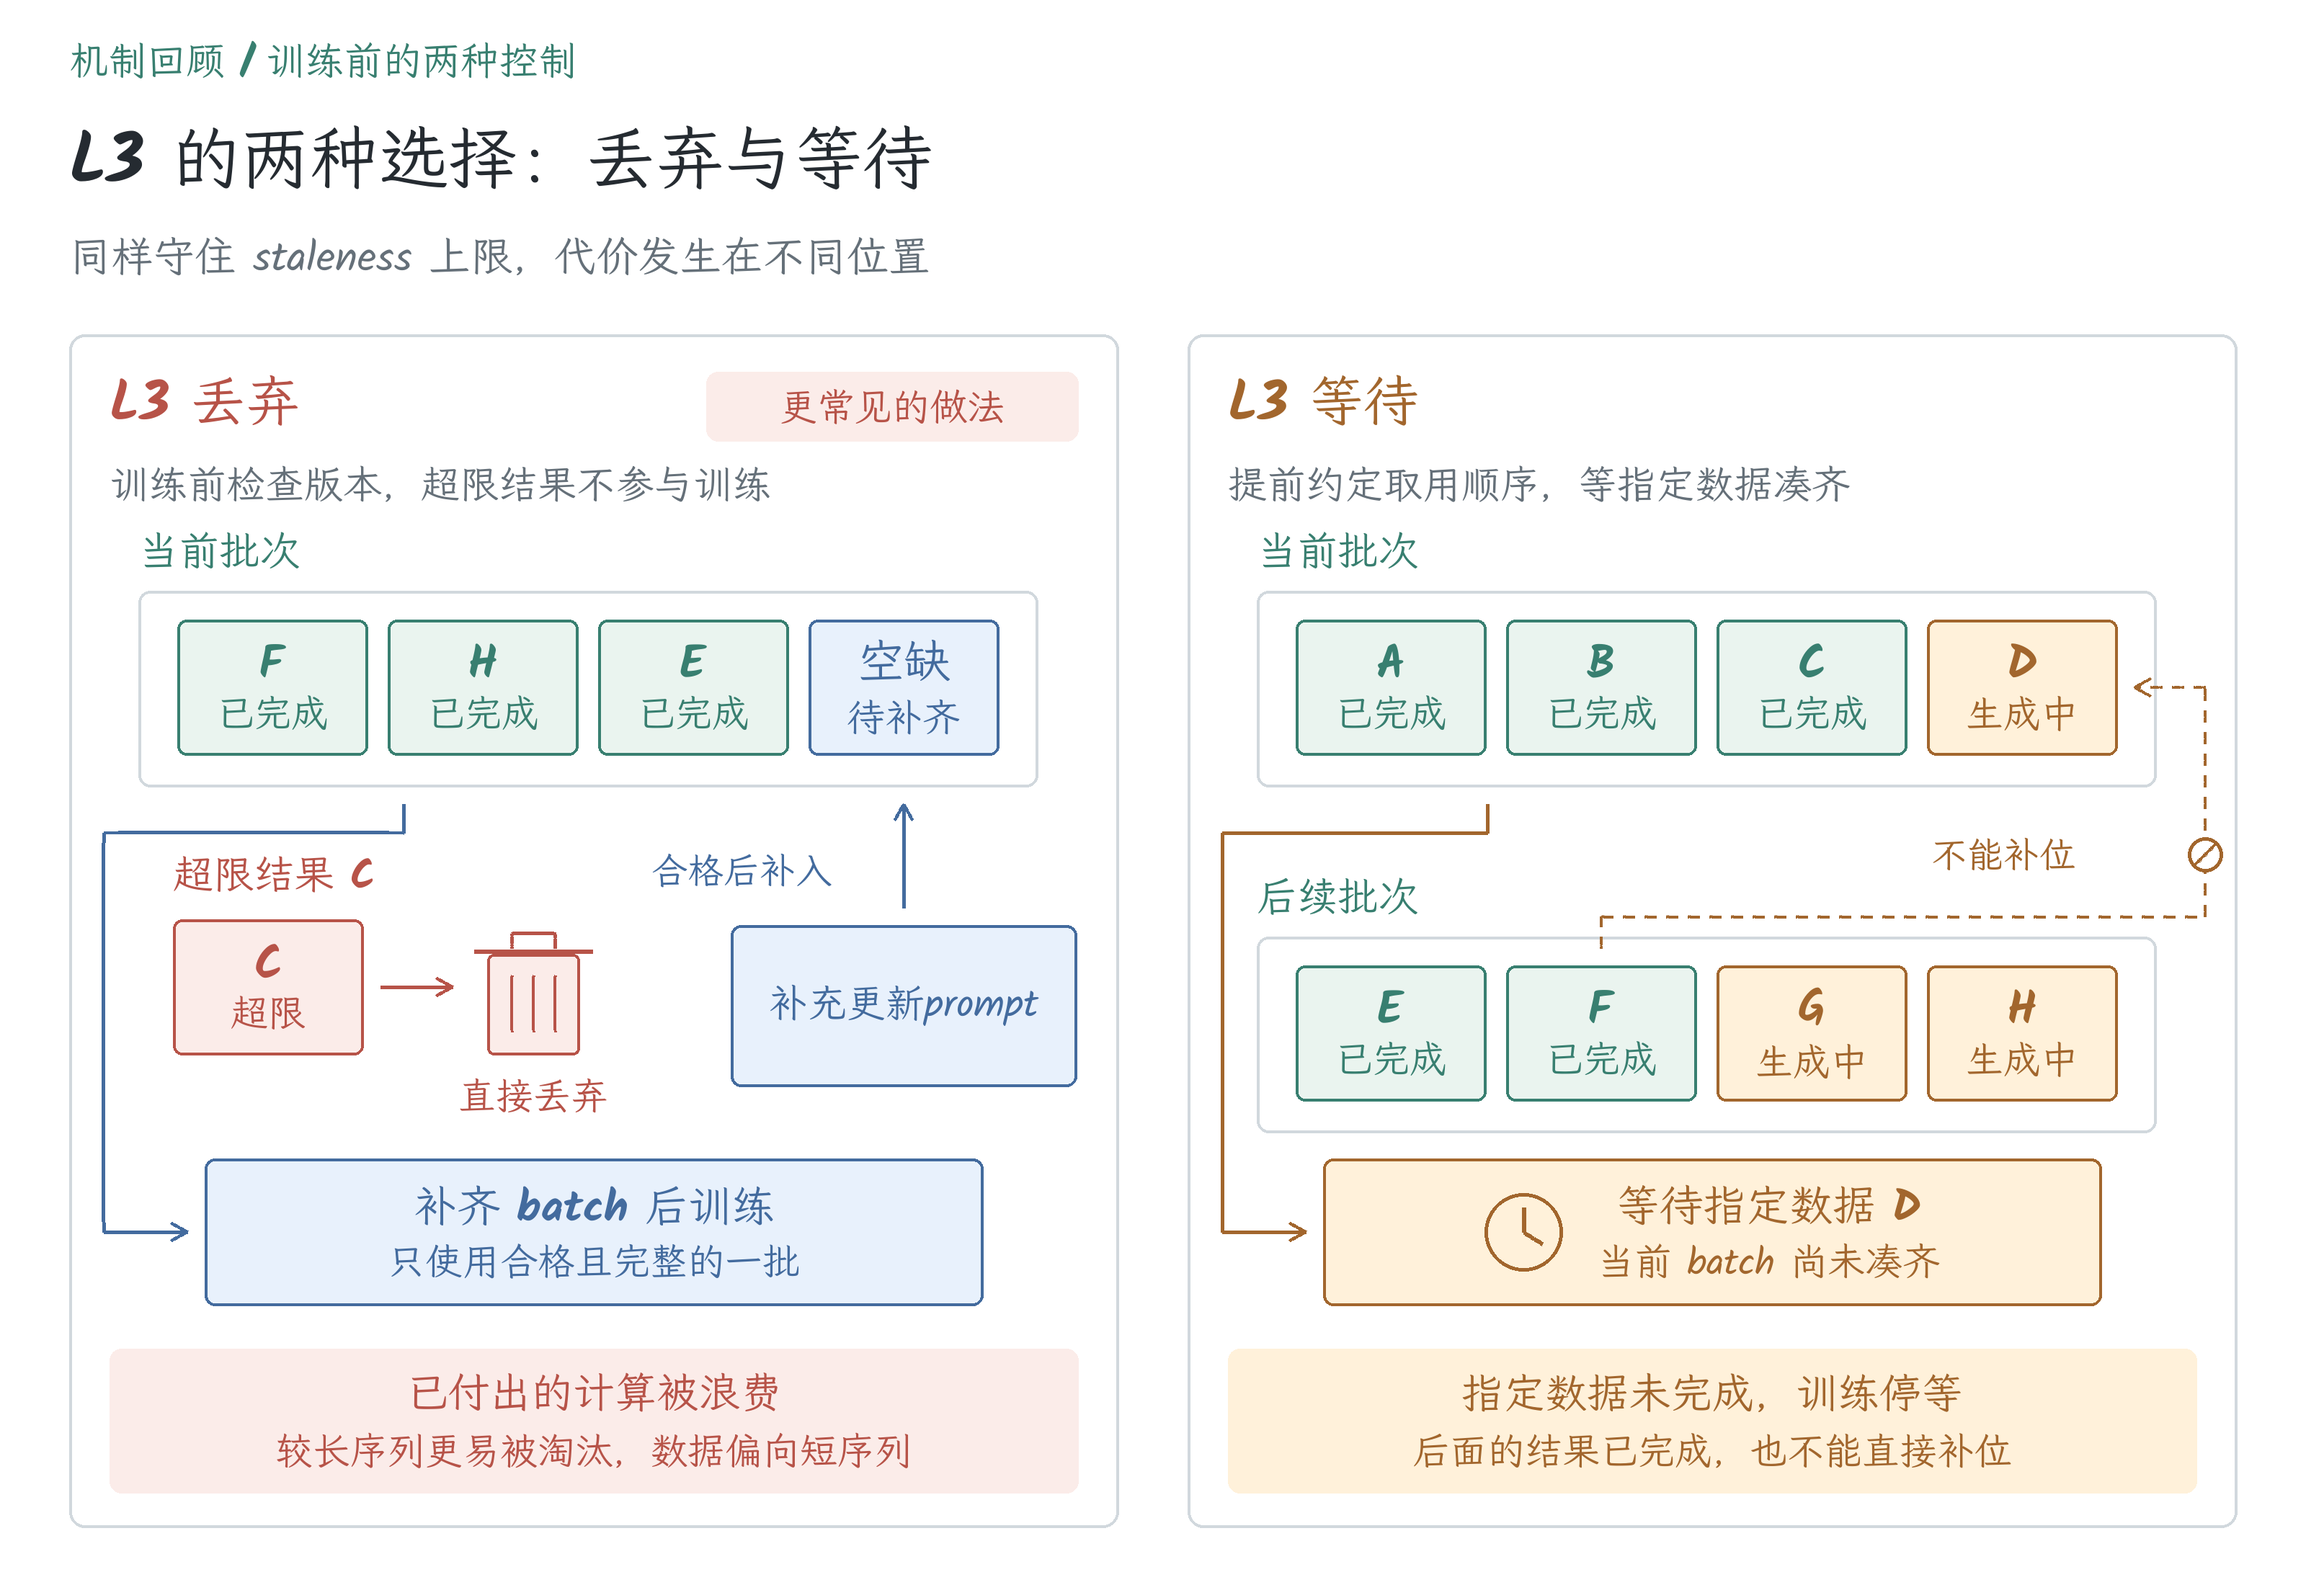
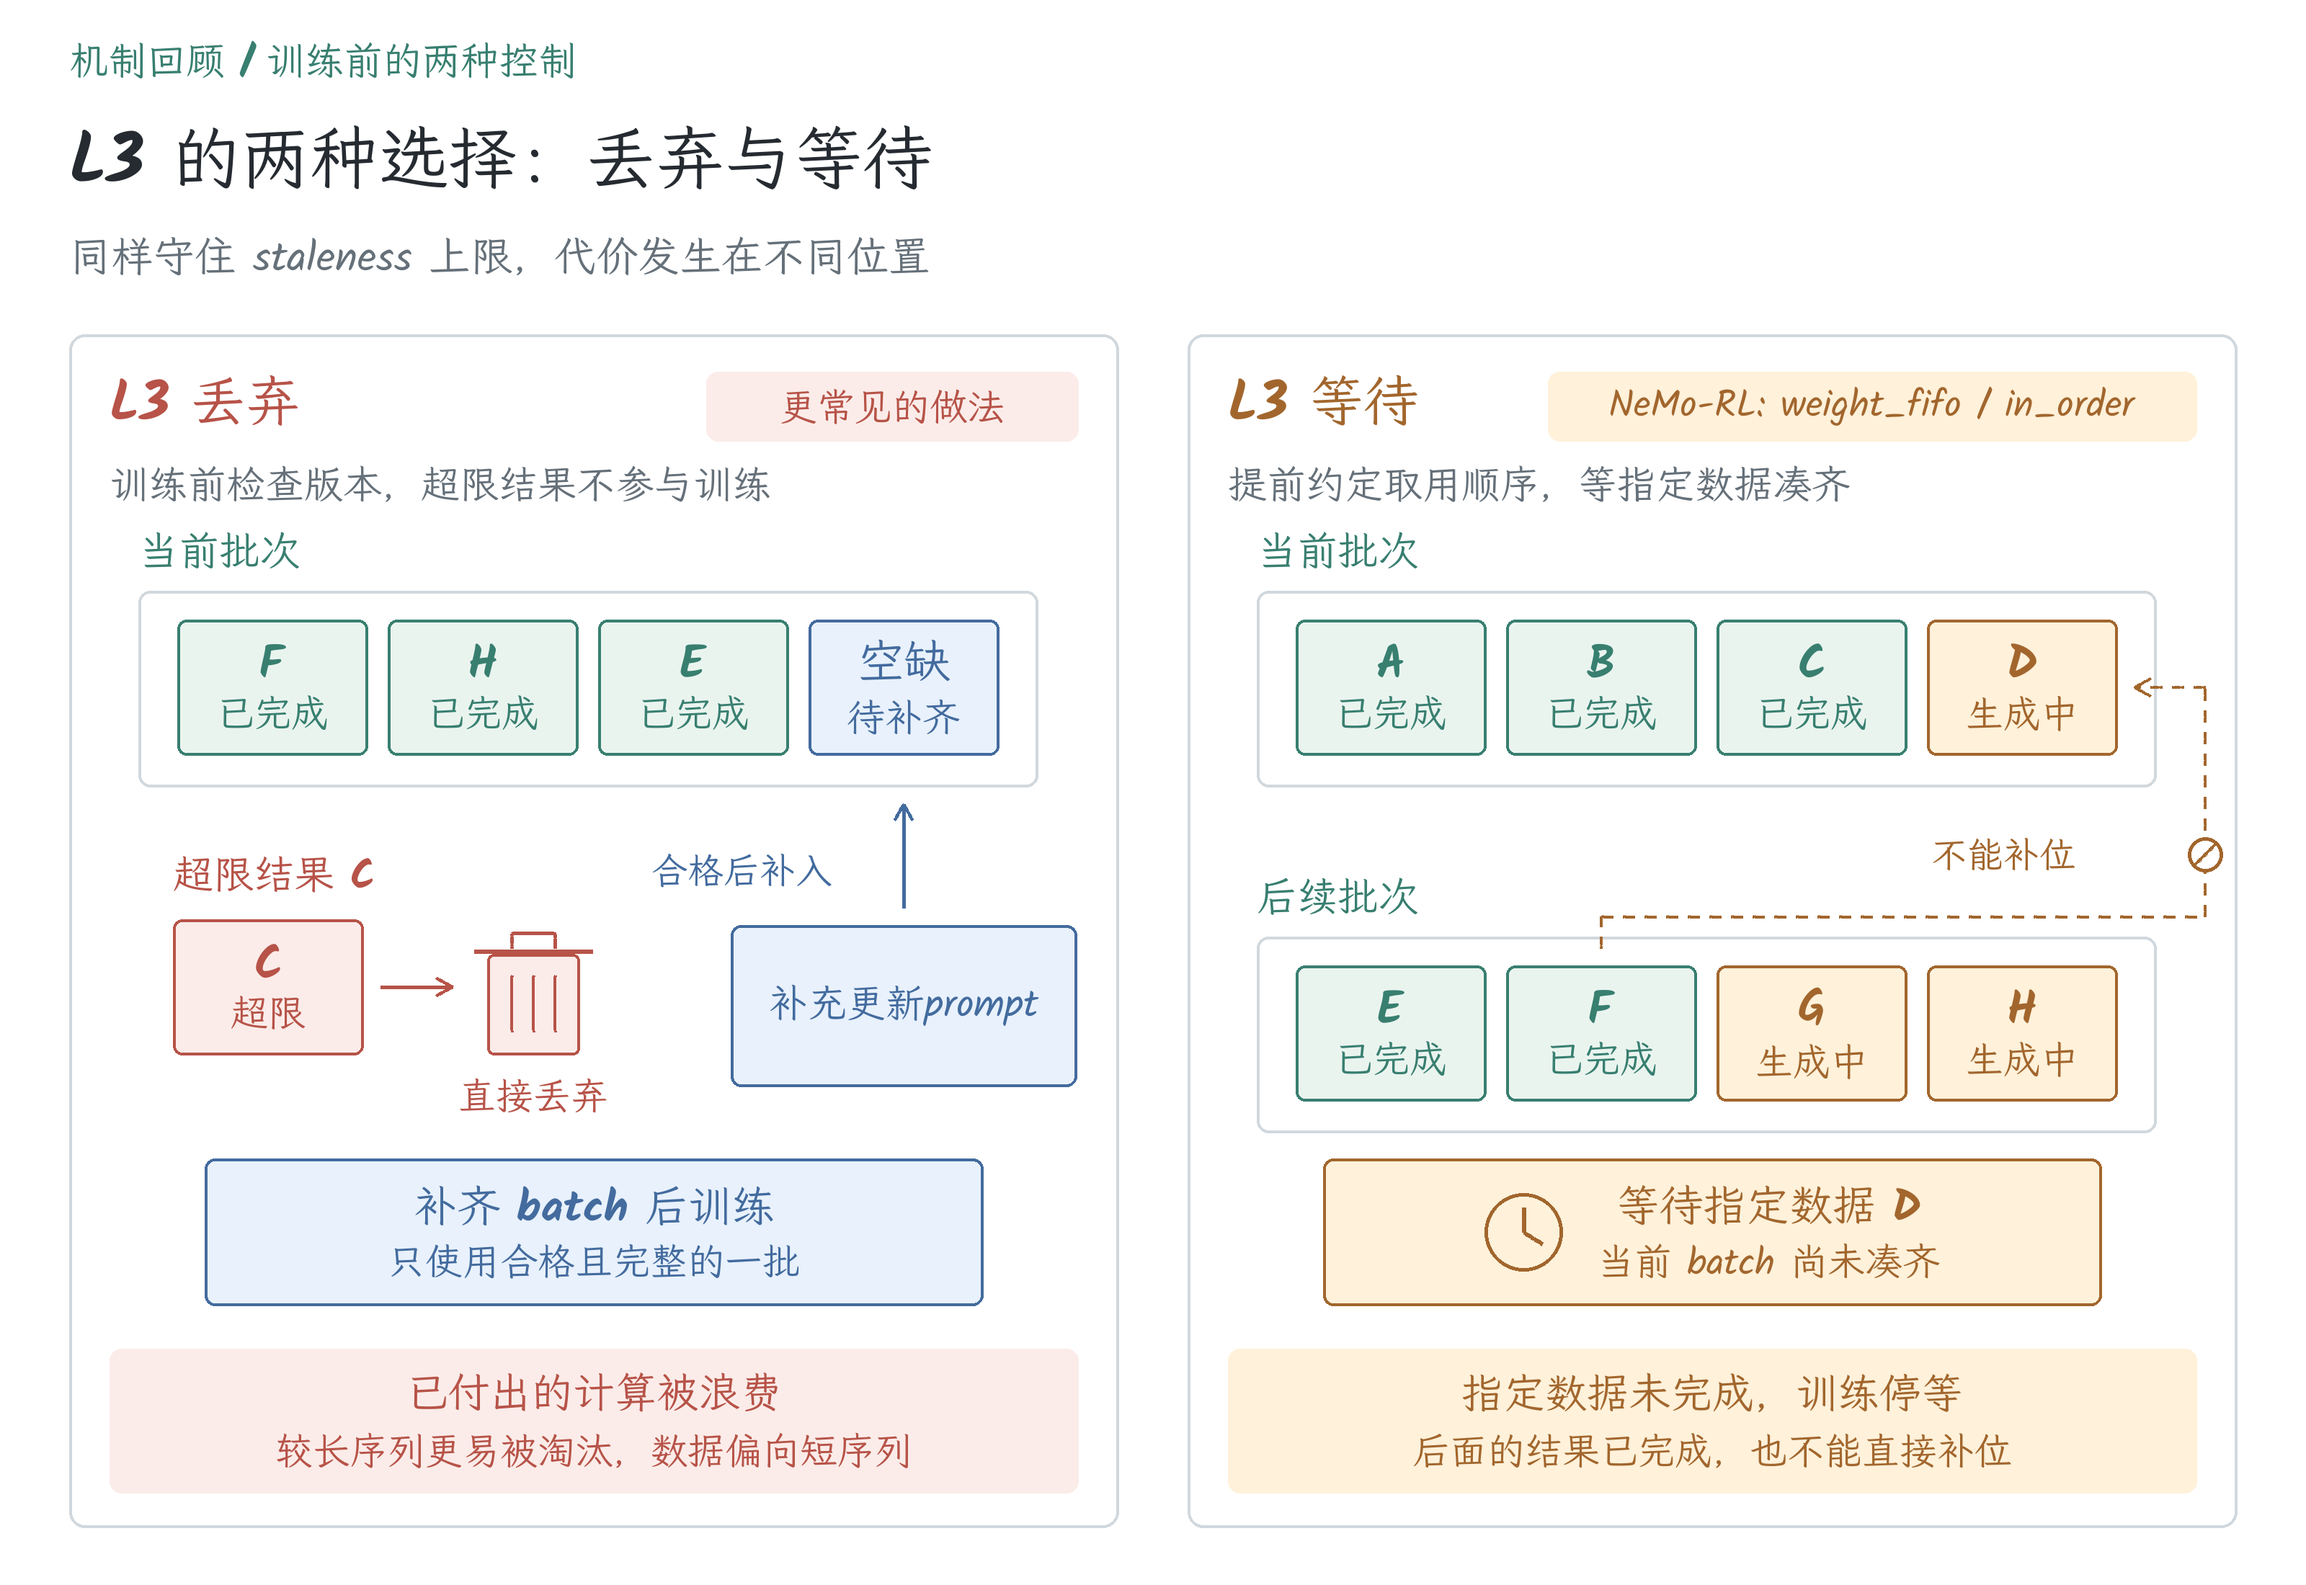
Add article navigation and refine staleness series presentation

Changed region(s): [[0.6562, 0.2164, 0.9688, 0.2782]]

diff --git a/_sass/_portfolio.scss b/_sass/_portfolio.scss
@@ -207,8 +207,17 @@ body { padding-bottom: 0; font-family: var(--font-body); letter-spacing: 0; }
 .blog-toc a { display: block; padding: .18rem .25rem; border-radius: 3px; color: var(--accent-dark); font-size: inherit; font-weight: 400; line-height: 1.5; text-decoration: none; }
 .blog-toc nav > ol > li > a { font-weight: 650; }
 .blog-toc a:hover { background: var(--accent-wash); }
-.blog-article__footer { display: flex; justify-content: space-between; gap: 1rem; margin-top: 2.2rem; padding-top: 1rem; border-top: 1px solid var(--line); font-size: .82rem; }
+.blog-article__footer { margin-top: 2.2rem; padding-top: 1.25rem; border-top: 1px solid var(--line); font-size: .82rem; }
 .blog-article__footer a { color: var(--accent-dark); }
+.blog-pagination { display: grid; grid-template-columns: repeat(2, minmax(0, 1fr)); gap: .85rem; margin-bottom: 1rem; }
+.blog-pagination__link { display: flex; flex-direction: column; gap: .5rem; min-width: 0; padding: 1rem 1.1rem; border: 1px solid var(--line); border-radius: 8px; background: #f8f9f5; text-decoration: none; transition: background .2s, border-color .2s; }
+.blog-pagination__link:hover { border-color: #a7b9a3; background: #f1f5ed; text-decoration: none; }
+.blog-pagination__link:focus-visible { outline: 2px solid var(--accent); outline-offset: 3px; }
+.blog-pagination__link--next { grid-column: 2; text-align: right; }
+.blog-pagination__label { color: var(--ink-soft); font-size: .75rem; line-height: 1.5; }
+.blog-pagination__title { color: var(--ink); font-family: var(--font-editorial); font-size: 1.03rem; line-height: 1.55; overflow-wrap: anywhere; }
+.blog-article__utilities { display: flex; flex-wrap: wrap; justify-content: space-between; gap: .4rem 1rem; }
+.blog-article__utilities a { display: inline-flex; align-items: center; min-height: 44px; }
 
 .page__footer { position: relative; float: none; margin: 0; border-top: 1px solid var(--line); background: #eeefe7; color: var(--ink-soft); animation: none; }
 .page__footer footer { max-width: 980px; margin: 0 auto; padding: 2.2rem 2.4rem 1.6rem; }
@@ -317,6 +326,9 @@ body { padding-bottom: 0; font-family: var(--font-body); letter-spacing: 0; }
   .blog-article__content th, .blog-article__content td { min-width: 4.5rem; padding: .4rem .5rem; }
   .blog-toc { font-size: .82rem; }
   .blog-article__footer { font-size: .76rem; }
+  .blog-pagination { grid-template-columns: 1fr; gap: .65rem; }
+  .blog-pagination__link { padding: .9rem 1rem; }
+  .blog-pagination__link--next { grid-column: 1; }
 }
 @media (max-width: 360px) {
   .site-brand__name > span { display: none; }

diff --git a/_includes/blog-pagination.html b/_includes/blog-pagination.html
@@ -1,0 +1,32 @@
+{% assign reading_order = site.blog | sort: 'date' | sort: 'list_order' %}
+{% assign previous_article = nil %}
+{% assign next_article = nil %}
+{% for post in reading_order %}
+  {% if post.url == page.url %}
+    {% unless forloop.first %}
+      {% assign previous_index = forloop.index0 | minus: 1 %}
+      {% assign previous_article = reading_order[previous_index] %}
+    {% endunless %}
+    {% unless forloop.last %}
+      {% assign next_index = forloop.index0 | plus: 1 %}
+      {% assign next_article = reading_order[next_index] %}
+    {% endunless %}
+    {% break %}
+  {% endif %}
+{% endfor %}
+{% if previous_article or next_article %}
+<nav class="blog-pagination" aria-label="文章翻页">
+  {% if previous_article %}
+  <a class="blog-pagination__link blog-pagination__link--previous" href="{{ previous_article.url | relative_url }}" rel="prev">
+    <span class="blog-pagination__label"><span aria-hidden="true">←</span> 上一篇</span>
+    <span class="blog-pagination__title">{{ previous_article.title | escape }}</span>
+  </a>
+  {% endif %}
+  {% if next_article %}
+  <a class="blog-pagination__link blog-pagination__link--next" href="{{ next_article.url | relative_url }}" rel="next">
+    <span class="blog-pagination__label">下一篇 <span aria-hidden="true">→</span></span>
+    <span class="blog-pagination__title">{{ next_article.title | escape }}</span>
+  </a>
+  {% endif %}
+</nav>
+{% endif %}

diff --git a/_layouts/blog-post.html b/_layouts/blog-post.html
@@ -20,7 +20,10 @@ layout: default
     <div class="blog-article__content">
       {{ content }}
     </div>
-    <footer class="blog-article__footer"><a href="{{ '/blog/' | relative_url }}">← 返回博客列表</a><a href="#main">回到顶部 ↑</a></footer>
+    <footer class="blog-article__footer">
+      {% include blog-pagination.html %}
+      <div class="blog-article__utilities"><a href="{{ '/blog/' | relative_url }}">← 返回博客列表</a><a href="#main">回到顶部 ↑</a></div>
+    </footer>
   </article>
 </main>
 <script src="{{ '/assets/js/blog-article.js' | relative_url }}?v={{ site.time | date: '%Y%m%d%H%M%S' }}" defer></script>

diff --git a/BLOGGING.md b/BLOGGING.md
@@ -1,6 +1,8 @@
 # 添加博客
 
-文章放在 `_blog/`，列表优先按可选的 `list_order` 从小到大排列，其余文章按日期倒序显示。staleness 系列固定按（一）、（二）、（三）排列，日期保留原值。
+文章放在 `_blog/`，列表按可选的 `list_order` 从大到小排列，同序号文章按日期倒序显示。staleness 系列固定按（三）、（二）、（一）排列，日期保留原值。
+
+文章底部自动显示上一篇、下一篇，阅读顺序按 `list_order` 从小到大，同序号按日期从早到晚。staleness 系列按（一）→（二）→（三）衔接，首尾篇只显示可用方向。桌面端左右排列，手机端上下排列，下方保留返回列表和回到顶部。
 
 新建 `_blog/your-slug.md`：
 

diff --git a/_pages/blog.md b/_pages/blog.md
@@ -13,7 +13,7 @@ author_profile: false
 
 <div class="blog-list">
   {% assign counter_endpoint = site.data.blog_counter.endpoint | default: '' | strip %}
-  {% assign articles = site.blog | sort: 'date' | reverse | sort: 'list_order' %}
+  {% assign articles = site.blog | sort: 'date' | sort: 'list_order' | reverse %}
   {% for post in articles %}
   <article class="blog-card" lang="{{ post.lang | default: 'en' }}">
     <a class="blog-card__visual" href="{{ post.url | relative_url }}" aria-label="{{ post.title | escape }}">
